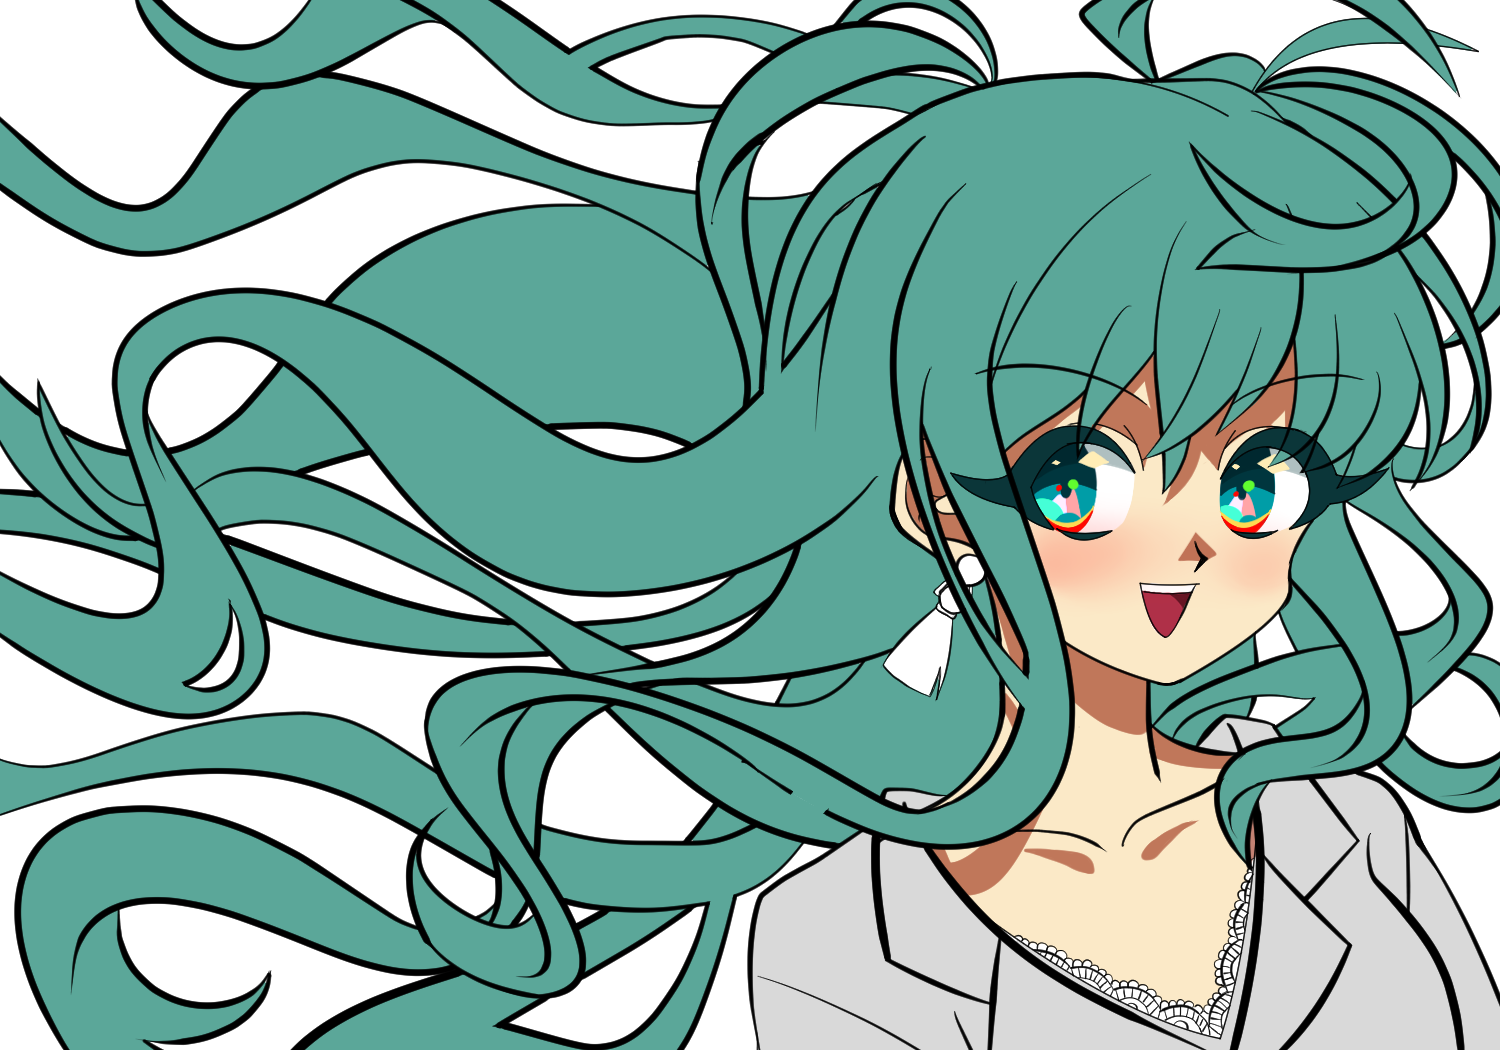
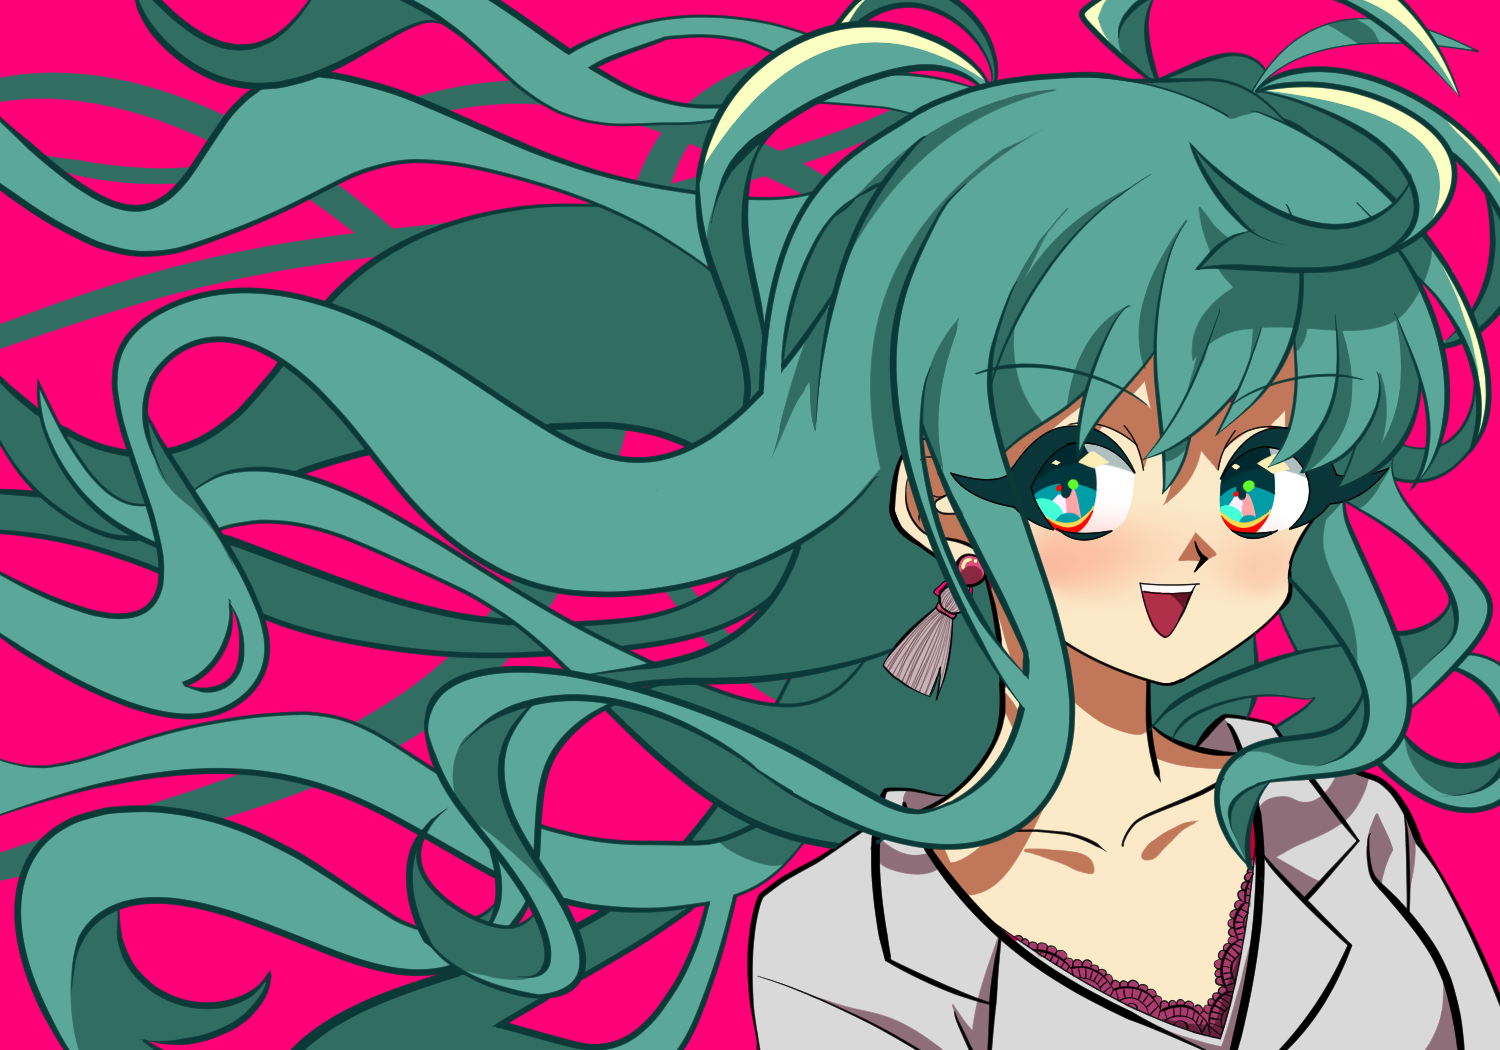
バックグラウンド背景完成したので変更

diff --git a/aseets/CSS/style.css b/aseets/CSS/style.css
@@ -41,7 +41,7 @@ header{
 /* ーーーーーヘッダーここまでーーーーー */
 .ue{
     height: 100vh;
-    background-image: url(../img/ori100.png);
+    background-image: url(../img/ori1000.png);
     background-position: -10%;
     background-size: cover;
     background-repeat: no-repeat;
